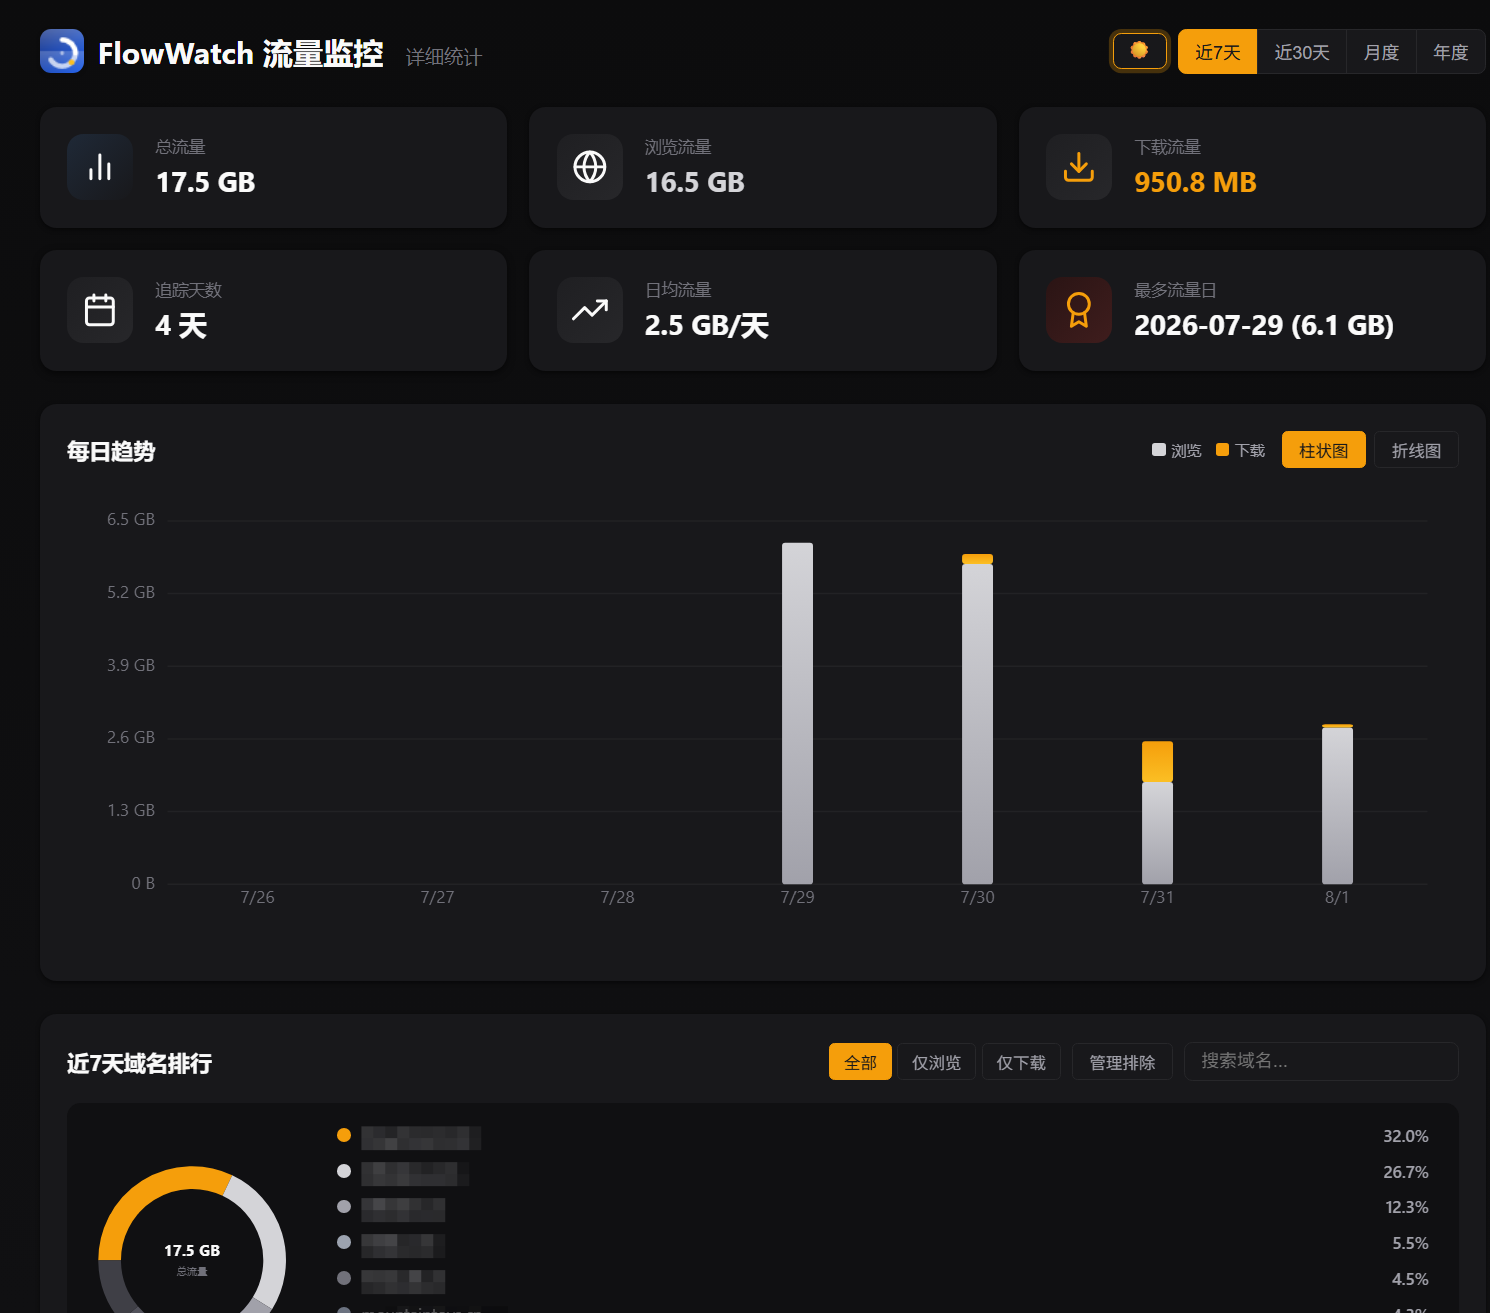
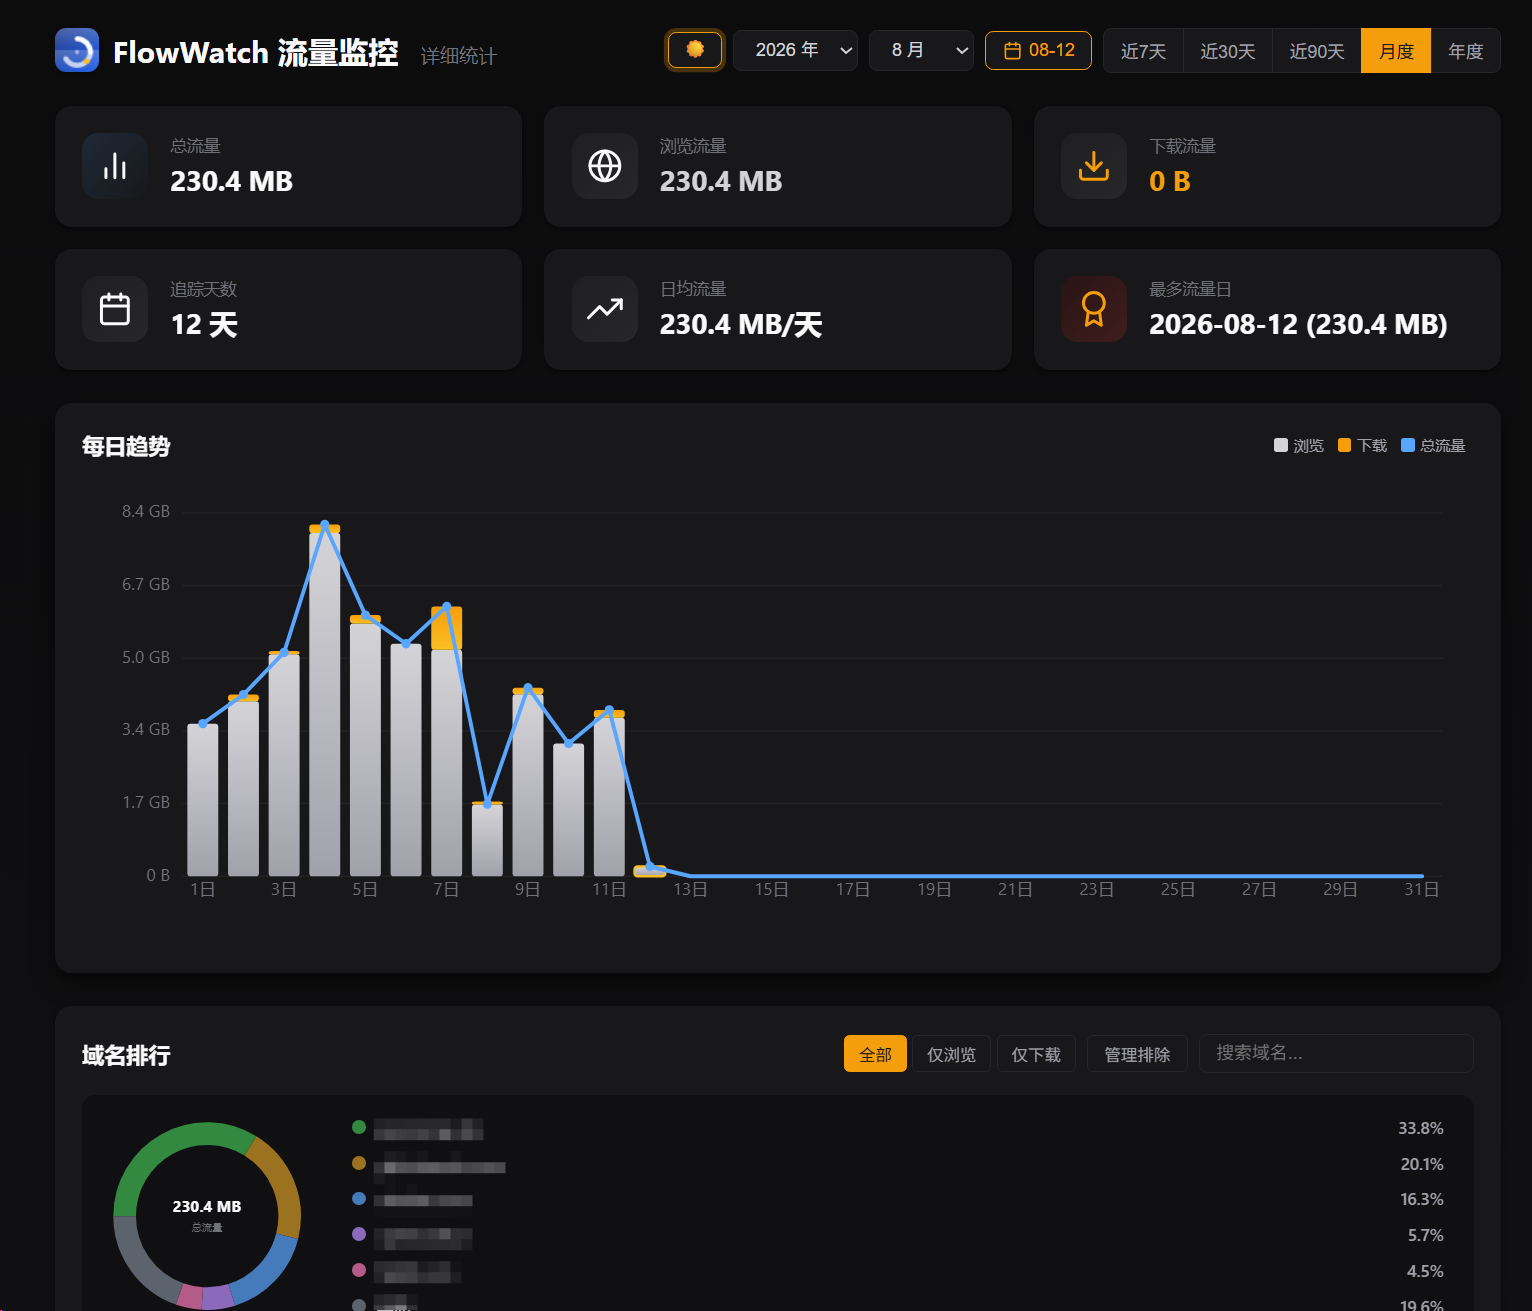
docs: 更新 README 截图（亮/暗色新版 UI）与图表功能描述

diff --git a/CLAUDE.md b/CLAUDE.md
@@ -51,7 +51,7 @@ pending_downloads_raw → [ ... ]                    未 flush 的下载明细
 - **下载采集**：`chrome.downloads.onChanged` 检测 `state:'complete'`，用 `chrome.downloads.search({id})` 补全 `fileSize` 和 URL。
 - **排除机制**：`background.js` 维护内存 `excludedDomains` Set，`chrome.storage.onChanged` 同步。Popup/Dashboard 通过 dataService 读写。
 - **Favicon**：`createFavicon(domain)` 三级解析 —— ① 直连 `/favicon.ico`（原域 → 根域 → CDN 映射主站）；② 抓主站主页 HTML 前 64KB 解析 `<link rel=icon>`；③ `favicon.im` 兜底（Cloudflare，国内可达，带熔断）。**CDN 映射表 `CDN_OWNER_MAP`**（shared.js）：hdslb.com / bilivideo.* / githubassets.com / aliyuncs.com 等 ~35 个平台 CDN 域名映射到主站取图标。带会话级缓存（`faviconCache` Map，Promise 去重）+ 并发信号量（≤6）。全部失败 → 灰色 SVG base64 占位。**新遇到没图标的 CDN 域名：在 `CDN_OWNER_MAP` 补一条即可覆盖整类。**
-- **SVG 图表**：`drawChart()` / `drawDetailChart()` 生成 `<rect>`/`<polyline>`/`<circle>` SVG，使用 `viewBox` 自适应缩放，`Date.now()` 后缀防 gradiant id 冲突。趋势图柱/点带 `data-day` 属性 + `<title>` 原生 tooltip，点击可跳转到对应日期的统计数据（自动切回月度视图并选中该日）。主图柱状图支持**浏览/下载堆叠**（`opts.stackValues`），折线模式带渐变面积填充，峰值日金色高亮。**配色系统**：石墨黑金（浅色暖灰白底 #fafaf9 + 石墨黑主色 #1f2937 + 金色下载 #d97706；暗色近黑底 #0c0c0d + 金色激活 #f59e0b；浏览=石墨/亮灰、下载=金），全部 CSS 变量控制（dashboard.css / popup.css `:root` + `[data-theme=dark]`），图表颜色由 CSS 变量接管。域名占比环形图 `drawDonut()`（Top 7 + 其他，点击扇区/图例联动表格）。
+- **SVG 图表**：`drawChart()` / `drawDetailChart()` 生成 `<rect>`/`<polyline>`/`<circle>` SVG，使用 `viewBox` 自适应缩放，`Date.now()` 后缀防 gradiant id 冲突。趋势图柱/点带 `data-day` 属性 + `<title>` 原生 tooltip，点击可跳转到对应日期的统计数据（自动切回月度视图并选中该日）。主图柱状图支持**浏览/下载堆叠**（`opts.stackValues`），折线模式带渐变面积填充，峰值日金色高亮。**配色系统**：石墨黑金（浅色暖灰白底 #fafaf9 + 石墨黑主色 #1f2937 + 金色下载 #d97706；暗色近黑底 #0c0c0d + 金色激活 #f59e0b；浏览=石墨/亮灰、下载=金），全部 CSS 变量控制（dashboard.css / popup.css `:root` + `[data-theme=dark]`），图表颜色由 CSS 变量接管。域名占比环形图 `drawDonut()`（Top 5 + 其他，点击扇区/图例联动表格）。
 - **自动剪枝**：存储占用 >80% 时删除最旧 30 天数据。
 - **年份选择**：支持去年 + 今年（跨年日历翻月可同步）。
 
@@ -83,4 +83,5 @@ Popup 或 Dashboard 打开
 - SVG 图表是每日批量渲染，非实时更新
 - 下载文件本身的 URL 可能为空（如 `blob:` URL），此时跳过
 - 域名归一化是本地启发式规则，不依赖公共后缀列表
+
 

diff --git a/README.md b/README.md
@@ -13,7 +13,7 @@
 
 - 📊 **流量统计** — 按域名统计浏览和下载流量，实时采集
 - 📅 **日/月/年视图** — 摘要卡片 + 每日趋势 + 域名排行，日历选择器按日查看
-- 📈 **SVG 图表** — 柱状图/折线图切换，**点击柱/点直接跳转到该日统计**（hover 有原生 tooltip）
+- 📈 **SVG 图表** — 浏览/下载堆叠柱状图 + 总流量趋势折线融合（折点对齐柱顶），**点击柱/点直接跳转到该日统计**（hover 有原生 tooltip）
 - 🔍 **域名详情** — 点击任意域名查看细分域名拆分和每日明细
 - 🚫 **域名排除** — 一键排除不关心的域名（如 CDN）
 - 📥 **CSV 导出** — 导出当前视图的域名流量报表
@@ -66,7 +66,7 @@ GitHub Actions 会在 push/PR 时自动执行以上检查。
 
 - 📊 **Traffic tracking** — Browse/download bytes per domain, collected in real time
 - 📅 **Day/Month/Year views** — Summary cards, daily trends, domain rankings, calendar day picker
-- 📈 **SVG charts** — Bar/line toggle; **click a bar/dot to jump to that day's stats** (native tooltip on hover)
+- 📈 **SVG charts** — Stacked browse/download bars fused with a total-traffic trend line; **click a bar/dot to jump to that day's stats** (native tooltip on hover)
 - 🔍 **Domain details** — Subdomain breakdown and daily history for any domain
 - 🚫 **Domain exclusion** — One-click exclude domains you don't care about (e.g., CDNs)
 - 📥 **CSV export** — Export current view as CSV
@@ -110,4 +110,5 @@ Light mode:
 Dark mode:
 
 ![FlowWatch dark mode](docs/screenshots/dark.png)
+
 
